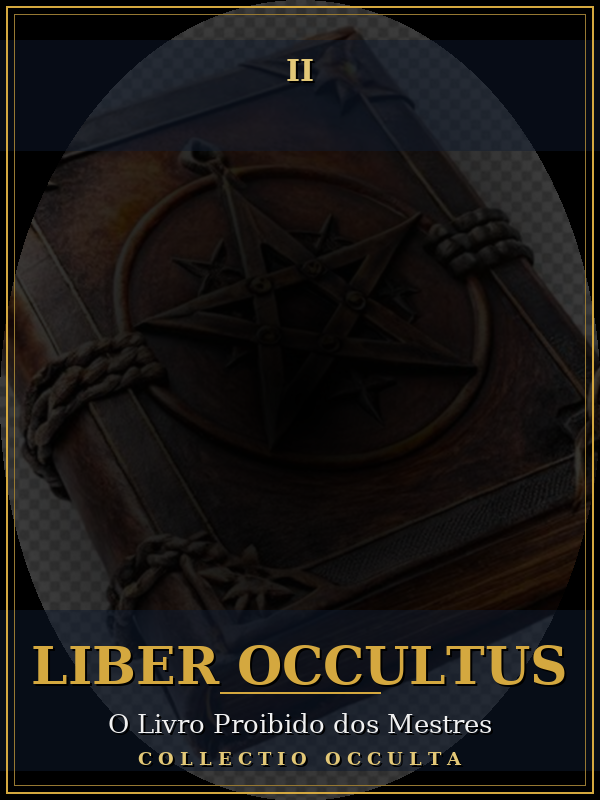
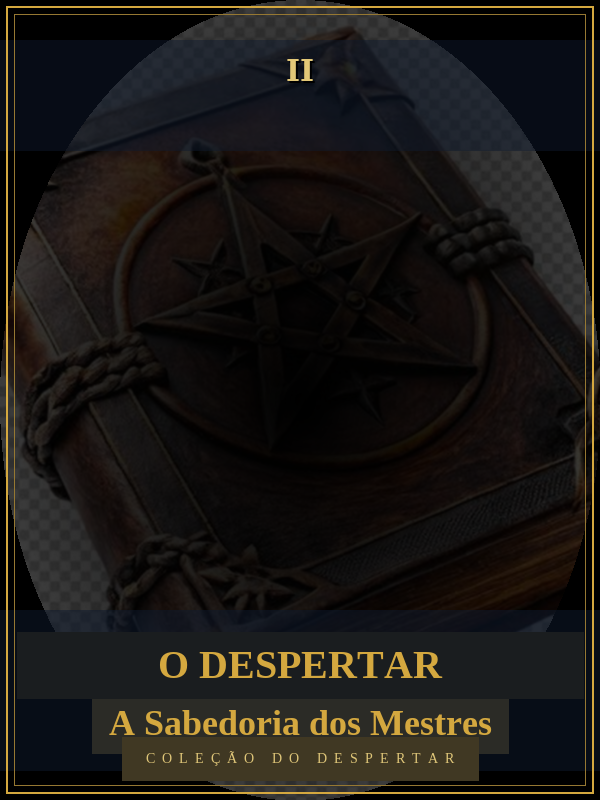
Capa do Livro 02 atualizada: título 'A Sabedoria dos Mestres' regravado na imagem (era 'O Livro Proibido dos Mestres'), selos O DESPERTAR e COLEÇÃO DO DESPERTAR; publicada no GitHub Pages (docs/capas/livro02.png?v=3) e referências atualizadas na Home, página livro02, geradores e kit SEO

Changed region(s): [[0.06, 0.7812, 0.96, 1.0]]

diff --git a/paginas/livro02_preview.html b/paginas/livro02_preview.html
@@ -11,14 +11,14 @@
 <meta property="og:type" content="article">
 <meta property="og:title" content="A Sabedoria dos Mestres — O Despertar do Conhecimento que Liberta a Alma">
 <meta property="og:description" content="Uma obra original sobre as leis da vibração, a linguagem do universo e o retorno do mestre interior. Leitura online gratuita e protegida.">
-<meta property="og:image" content="https://i.ibb.co/yBNkHB7q/livro02.jpg">
+<meta property="og:image" content="https://sidneyrma.github.io/instalador/capas/livro02.png?v=3">
 <meta property="og:url" content="https://www.compraoseu.com/livro02">
 <meta property="og:locale" content="pt_BR">
 <meta property="og:site_name" content="Missão com Deus — CompraOSeu">
 <meta name="twitter:card" content="summary_large_image">
 <meta name="twitter:title" content="A Sabedoria dos Mestres — O Despertar do Conhecimento que Liberta a Alma">
 <meta name="twitter:description" content="Uma obra original sobre as leis da vibração, a linguagem do universo e o retorno do mestre interior. Leitura online gratuita e protegida.">
-<meta name="twitter:image" content="https://i.ibb.co/yBNkHB7q/livro02.jpg">
+<meta name="twitter:image" content="https://sidneyrma.github.io/instalador/capas/livro02.png?v=3">
 <style>
 :root{
   --navy:#0e1a2e; --navy2:#16283f;
@@ -117,7 +117,7 @@ footer{background:#0a1322; color:#7f8ca1; text-align:center; padding:1.6rem 1.2r
 </header>
 
 <section class="capa">
-  <img class="capa-livro" src="https://i.ibb.co/yBNkHB7q/livro02.jpg" alt="Capa do livro A Sabedoria dos Mestres">
+  <img class="capa-livro" src="https://sidneyrma.github.io/instalador/capas/livro02.png?v=3" alt="Capa do livro A Sabedoria dos Mestres">
   <p class="selo">Coleção do Despertar</p>
   <h1>A Sabedoria dos Mestres</h1>
   <p class="sub">O Despertar do Conhecimento que Liberta a Alma</p>

diff --git a/paginas/home_preview.html b/paginas/home_preview.html
@@ -408,7 +408,7 @@
 
       <!-- LIVRO 02 -->
       <div class="bib-card">
-        <div class="bib-capa"><img class="capa-img" src="https://i.ibb.co/yBNkHB7q/livro02.jpg" alt="A Sabedoria dos Mestres - capa"></div>
+        <div class="bib-capa"><img class="capa-img" src="https://sidneyrma.github.io/instalador/capas/livro02.png?v=3" alt="A Sabedoria dos Mestres - capa"></div>
         <div class="bib-corpo">
           <span class="bib-num">Livro 02 · Disponível</span>
           <h3>A Sabedoria dos Mestres</h3>

diff --git a/analise/compraoseu.preview/gerar_livro02_v2.py b/analise/compraoseu.preview/gerar_livro02_v2.py
@@ -16,7 +16,7 @@ OUT = HERE.parent.parent / "paginas" / "livro02_preview.html"
 TITULO = "A Sabedoria dos Mestres"
 SUBTITULO = "O Despertar do Conhecimento que Liberta a Alma"
 URL = "https://www.compraoseu.com/livro02"
-CAPA = "https://i.ibb.co/yBNkHB7q/livro02.jpg"
+CAPA = "https://sidneyrma.github.io/instalador/capas/livro02.png?v=3"
 
 DESC = "Leia online A Sabedoria dos Mestres — O Despertar do Conhecimento que Liberta a Alma. Uma obra original sobre as leis da vibração, a linguagem do universo e o retorno do mestre interior. Leitura gratuita e protegida."
 KEYWORDS = "sabedoria dos mestres, mestre interior, vibração, manifestação, leis da vida, autoconhecimento, espelho, três portais, livro espiritual, leitura online grátis"

diff --git a/analise/compraoseu.preview/gerar_livro02.py b/analise/compraoseu.preview/gerar_livro02.py
@@ -258,7 +258,7 @@ document.addEventListener('keydown', function(e){
 </header>
 
 <section class="capa">
-  <img class="capa-livro" src="https://i.ibb.co/yBNkHB7q/livro02.jpg" alt="Capa do livro O Livro Proibido dos Mestres">
+  <img class="capa-livro" src="https://sidneyrma.github.io/instalador/capas/livro02.png?v=3" alt="Capa do livro O Livro Proibido dos Mestres">
   <p class="selo">Coleção do Despertar</p>
   <h1>{esc(TITULO)}</h1>
   <p class="sub">{esc(SUBTITULO)}</p>
